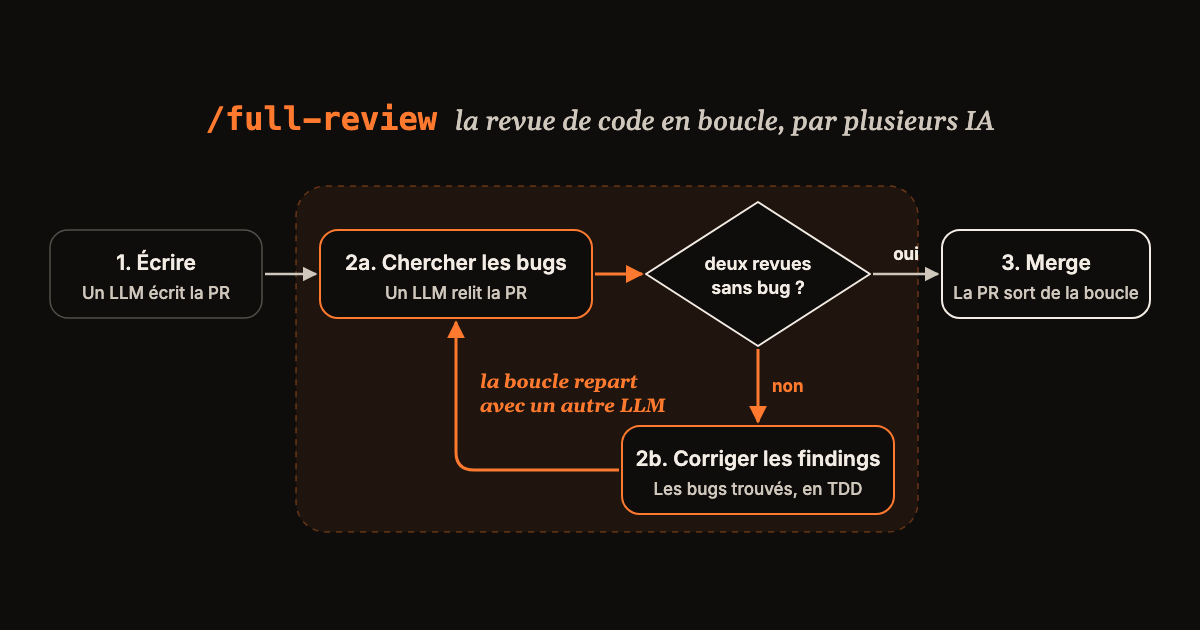
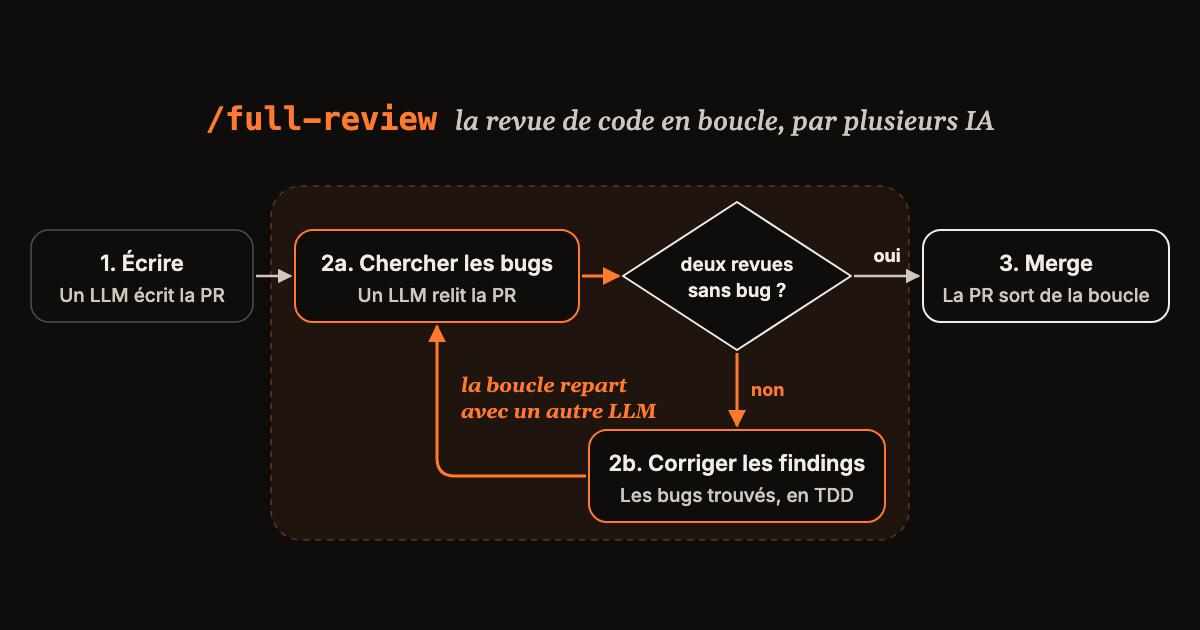
Article : schéma d'en-tête à la largeur du texte, schéma vertical seulement sur mobile
Claude-Session: https://claude.ai/code/session_01Paz6PNUeuA1k41NNyZQV7d

diff --git a/blog/qui-verifie/index.html b/blog/qui-verifie/index.html
@@ -38,23 +38,25 @@ figure { margin: 8px 0; padding: 24px clamp(16px, 3vw, 28px); background: var(--
 figcaption { font: 600 15px/1.4 var(--body); color: var(--text); }
 .fig-note { font-size: 13px; line-height: 1.5; color: var(--gray); }
 /* Schéma horizontal en tête */
-.hero { padding: 0; overflow: hidden; margin: 16px 0 8px 50%; width: min(1040px, calc(100vw - 48px)); transform: translateX(-50%); }
+.hero { padding: 0; overflow: hidden; margin-top: 16px; }
 @media (max-width: 760px) { .hero { display: none; } }
+.mobile-only { display: none; }
+@media (max-width: 760px) { .mobile-only { display: flex; } }
 .hzsvg { display: block; width: 100%; height: auto; }
 .hzsvg .hz-box { fill: var(--bg); stroke: var(--line); stroke-width: 1.5; }
 .hzsvg .hz-loop { stroke: var(--accent); stroke-width: 2; }
 .hzsvg .hz-end { stroke: var(--text); stroke-width: 2; }
-.hzsvg .hz-t { font: 600 21px var(--body); fill: var(--text); text-anchor: middle; }
-.hzsvg .hz-s { font: 500 17px var(--body); fill: var(--text2); text-anchor: middle; }
+.hzsvg .hz-t { font: 600 22px var(--body); fill: var(--text); text-anchor: middle; }
+.hzsvg .hz-s { font: 500 19px var(--body); fill: var(--text2); text-anchor: middle; }
 .hzsvg .hz-arc { fill: none; stroke: var(--accent); stroke-width: 3; }
 .hzsvg .hz-head-arc { fill: var(--accent); }
 .hzsvg .hz-line { fill: none; stroke: var(--text2); stroke-width: 2.5; }
 .hzsvg .hz-head-line { fill: var(--text2); }
 .hzsvg .hz-diamond { fill: var(--bg); stroke: var(--text); stroke-width: 2; stroke-linejoin: round; }
-.hzsvg .hz-d { font: 600 18px var(--body); fill: var(--text); text-anchor: middle; }
-.hzsvg .hz-yes { font: 700 17px var(--body); fill: var(--text); text-anchor: middle; }
-.hzsvg .hz-no { font: 700 17px var(--body); fill: var(--accent); }
-.hzsvg .hz-lt { font: italic 700 19px var(--display); fill: var(--accent); }
+.hzsvg .hz-d { font: 600 19px var(--body); fill: var(--text); text-anchor: middle; }
+.hzsvg .hz-yes { font: 700 18px var(--body); fill: var(--text); text-anchor: middle; }
+.hzsvg .hz-no { font: 700 18px var(--body); fill: var(--accent); }
+.hzsvg .hz-lt { font: italic 700 20px var(--display); fill: var(--accent); }
 .hzsvg .hz-zone { fill: var(--accent); fill-opacity: 0.07; stroke: var(--accent); stroke-opacity: 0.35; stroke-width: 1.5; stroke-dasharray: 6 6; }
 .hzsvg .hz-title { text-anchor: middle; }
 .hzsvg .hz-k { font: 700 32px ui-monospace, "SF Mono", Menlo, monospace; fill: var(--accent); }
@@ -151,26 +153,26 @@ th { color: var(--text); font-weight: 600; }
     <div class="eyebrow">Blog · 12 novembre 2026</div>
     <h1 class="one-line">L’IA code, ok&nbsp;! Mais qui <em>vérifie</em>&nbsp;?</h1>
     <p class="subtitle">Écrire du code n’est plus un problème&nbsp;: l’IA le fait vite et bien. Le point clé, désormais, c’est de vérifier et sécuriser son code avant déploiement en production&nbsp;!</p>
-    <figure class="hero"><svg class="hzsvg" viewBox="26 78 1148 478" role="img" aria-label="Le skill /full-review, la revue de code en boucle par plusieurs IA. 1 : un LLM écrit la PR. 2a : un LLM relit la PR et cherche les bugs. Deux revues sans bug d’affilée ? Si oui, 3 : merge, la PR sort de la boucle. Si non, 2b : les bugs trouvés sont corrigés en TDD, et la boucle repart en 2a avec un autre LLM.">
+    <figure class="hero"><svg class="hzsvg" viewBox="21 86 1158 470" role="img" aria-label="Le skill /full-review, la revue de code en boucle par plusieurs IA. 1 : un LLM écrit la PR. 2a : un LLM relit la PR et cherche les bugs. Deux revues sans bug d’affilée ? Si oui, 3 : merge, la PR sort de la boucle. Si non, 2b : les bugs trouvés sont corrigés en TDD, et la boucle repart en 2a avec un autre LLM.">
 <defs>
 <marker id="hz-hz-arc" viewBox="0 0 10 10" refX="9" refY="5" markerWidth="6" markerHeight="6" orient="auto"><path d="M0,0 L10,5 L0,10 z" class="hz-head-arc"/></marker>
 <marker id="hz-hz-line" viewBox="0 0 10 10" refX="9" refY="5" markerWidth="6" markerHeight="6" orient="auto"><path d="M0,0 L10,5 L0,10 z" class="hz-head-line"/></marker>
 </defs>
 <text class="hz-title" x="600.0" y="130"><tspan class="hz-k">/full-review</tspan><tspan class="hz-k2" dx="18">la revue de code en boucle, par plusieurs IA</tspan></text>
-<rect class="hz-zone" x="296" y="186" width="622" height="346.0" rx="30"/>
-<path class="hz-line" d="M265,274 H316" marker-end="url(#hz-hz-line)"/>
-<path class="hz-arc" d="M595,274 H642" marker-end="url(#hz-hz-arc)"/>
-<path class="hz-line" d="M873,274 H938" marker-end="url(#hz-hz-line)"/>
-<path class="hz-arc" d="M758,349 V422.0" marker-end="url(#hz-hz-arc)"/>
-<path class="hz-arc" d="M619,470 H474.0 Q456.0,470 456.0,452 V322.0" marker-end="url(#hz-hz-arc)"/>
-<text class="hz-lt" x="480.0" y="388.0">la boucle repart</text>
-<text class="hz-lt" x="480.0" y="412.0">avec un autre LLM</text>
-<path class="hz-diamond" d="M758,202 L870,274 L758,346 L646,274 Z"/>
-<text class="hz-d" x="758" y="270">deux revues</text>
-<text class="hz-d" x="758" y="294">sans bug&#160;?</text>
-<text class="hz-yes" x="906.0" y="260">oui</text>
-<text class="hz-no" x="772" y="392.0">non</text>
-<rect class="hz-box hz-plain" x="50" y="230.0" width="212" height="88" rx="18"/><text class="hz-t" x="156.0" y="270">1. Écrire</text><text class="hz-s" x="156.0" y="299">Un LLM écrit la PR</text><rect class="hz-box hz-loop" x="320" y="230.0" width="272" height="88" rx="18"/><text class="hz-t" x="456.0" y="270">2a. Chercher les bugs</text><text class="hz-s" x="456.0" y="299">Un LLM relit la PR</text><rect class="hz-box hz-end" x="942" y="230.0" width="208" height="88" rx="18"/><text class="hz-t" x="1046.0" y="270">3. Merge</text><text class="hz-s" x="1046.0" y="299">La PR sort de la boucle</text><rect class="hz-box hz-loop" x="622" y="426.0" width="272" height="88" rx="18"/><text class="hz-t" x="758.0" y="466">2b. Corriger les findings</text><text class="hz-s" x="758.0" y="495">Les bugs trouvés, en TDD</text>
+<rect class="hz-zone" x="271.0" y="186" width="638.0" height="354.0" rx="30"/>
+<path class="hz-line" d="M256.0,276 H291.0" marker-end="url(#hz-hz-line)"/>
+<path class="hz-arc" d="M582.0,276 H619.0" marker-end="url(#hz-hz-arc)"/>
+<path class="hz-line" d="M854.0,276 H919.0" marker-end="url(#hz-hz-line)"/>
+<path class="hz-arc" d="M737.0,353 V426.0" marker-end="url(#hz-hz-arc)"/>
+<path class="hz-arc" d="M586.0,476 H455.0 Q437.0,476 437.0,458 V326.0" marker-end="url(#hz-hz-arc)"/>
+<text class="hz-lt" x="461.0" y="392.0">la boucle repart</text>
+<text class="hz-lt" x="461.0" y="418.0">avec un autre LLM</text>
+<path class="hz-diamond" d="M737.0,202 L851.0,276 L737.0,350 L623.0,276 Z"/>
+<text class="hz-d" x="737.0" y="271">deux revues</text>
+<text class="hz-d" x="737.0" y="297">sans bug&#160;?</text>
+<text class="hz-yes" x="887.0" y="262">oui</text>
+<text class="hz-no" x="751.0" y="396.0">non</text>
+<rect class="hz-box hz-plain" x="31.0" y="230.0" width="222" height="92" rx="18"/><text class="hz-t" x="142.0" y="271">1. Écrire</text><text class="hz-s" x="142.0" y="302">Un LLM écrit la PR</text><rect class="hz-box hz-loop" x="295.0" y="230.0" width="284" height="92" rx="18"/><text class="hz-t" x="437.0" y="271">2a. Chercher les bugs</text><text class="hz-s" x="437.0" y="302">Un LLM relit la PR</text><rect class="hz-box hz-end" x="923.0" y="230.0" width="246" height="92" rx="18"/><text class="hz-t" x="1046.0" y="271">3. Merge</text><text class="hz-s" x="1046.0" y="302">La PR sort de la boucle</text><rect class="hz-box hz-loop" x="589.0" y="430.0" width="296" height="92" rx="18"/><text class="hz-t" x="737.0" y="471">2b. Corriger les findings</text><text class="hz-s" x="737.0" y="502">Les bugs trouvés, en TDD</text>
 </svg></figure>
 
     <h2>Fin 2025&nbsp;: l’IA écrit, l’humain relit</h2>
@@ -183,7 +185,7 @@ th { color: var(--text); font-weight: 600; }
     <p>L’IA code mieux que l’humain, c’est acquis. Elle relit aussi mieux que lui&nbsp;: elle lit chaque ligne, ne se lasse jamais, et ajoute en prime une analyse de sécurité systématique, que l’humain fait le plus souvent après coup, dans de rares audits.</p>
     <p>Aussi, nous avons décidé de confier notre revue de code à des IA, mais de façon maîtrisée, au travers d’un skill nommé <code>/full-review</code>. Plusieurs IA relisent à tour de rôle la PR. Chaque problème détecté est fixé de suite, puis la revue repart, avec un autre relecteur.</p>
 
-    <figure>
+    <figure class="mobile-only">
       <figcaption>Le skill <code>/full-review</code></figcaption>
       <svg class="loopsvg" viewBox="0 0 390 440" role="img" aria-label="Le skill /full-review. 1 : une IA écrit la PR. 2a : un LLM relit la PR et cherche les bugs. Test : deux revues sans bug d’affilée ? Si non, 2b : les bugs trouvés sont corrigés en TDD, et la boucle repart en 2a avec un autre LLM. Si oui, 3 : merge, la PR sort de la boucle.">
 <defs>

diff --git a/blog/index.html b/blog/index.html
@@ -38,23 +38,25 @@ figure { margin: 8px 0; padding: 24px clamp(16px, 3vw, 28px); background: var(--
 figcaption { font: 600 15px/1.4 var(--body); color: var(--text); }
 .fig-note { font-size: 13px; line-height: 1.5; color: var(--gray); }
 /* Schéma horizontal en tête */
-.hero { padding: 0; overflow: hidden; margin: 16px 0 8px 50%; width: min(1040px, calc(100vw - 48px)); transform: translateX(-50%); }
+.hero { padding: 0; overflow: hidden; margin-top: 16px; }
 @media (max-width: 760px) { .hero { display: none; } }
+.mobile-only { display: none; }
+@media (max-width: 760px) { .mobile-only { display: flex; } }
 .hzsvg { display: block; width: 100%; height: auto; }
 .hzsvg .hz-box { fill: var(--bg); stroke: var(--line); stroke-width: 1.5; }
 .hzsvg .hz-loop { stroke: var(--accent); stroke-width: 2; }
 .hzsvg .hz-end { stroke: var(--text); stroke-width: 2; }
-.hzsvg .hz-t { font: 600 21px var(--body); fill: var(--text); text-anchor: middle; }
-.hzsvg .hz-s { font: 500 17px var(--body); fill: var(--text2); text-anchor: middle; }
+.hzsvg .hz-t { font: 600 22px var(--body); fill: var(--text); text-anchor: middle; }
+.hzsvg .hz-s { font: 500 19px var(--body); fill: var(--text2); text-anchor: middle; }
 .hzsvg .hz-arc { fill: none; stroke: var(--accent); stroke-width: 3; }
 .hzsvg .hz-head-arc { fill: var(--accent); }
 .hzsvg .hz-line { fill: none; stroke: var(--text2); stroke-width: 2.5; }
 .hzsvg .hz-head-line { fill: var(--text2); }
 .hzsvg .hz-diamond { fill: var(--bg); stroke: var(--text); stroke-width: 2; stroke-linejoin: round; }
-.hzsvg .hz-d { font: 600 18px var(--body); fill: var(--text); text-anchor: middle; }
-.hzsvg .hz-yes { font: 700 17px var(--body); fill: var(--text); text-anchor: middle; }
-.hzsvg .hz-no { font: 700 17px var(--body); fill: var(--accent); }
-.hzsvg .hz-lt { font: italic 700 19px var(--display); fill: var(--accent); }
+.hzsvg .hz-d { font: 600 19px var(--body); fill: var(--text); text-anchor: middle; }
+.hzsvg .hz-yes { font: 700 18px var(--body); fill: var(--text); text-anchor: middle; }
+.hzsvg .hz-no { font: 700 18px var(--body); fill: var(--accent); }
+.hzsvg .hz-lt { font: italic 700 20px var(--display); fill: var(--accent); }
 .hzsvg .hz-zone { fill: var(--accent); fill-opacity: 0.07; stroke: var(--accent); stroke-opacity: 0.35; stroke-width: 1.5; stroke-dasharray: 6 6; }
 .hzsvg .hz-title { text-anchor: middle; }
 .hzsvg .hz-k { font: 700 32px ui-monospace, "SF Mono", Menlo, monospace; fill: var(--accent); }

diff --git a/en/blog/index.html b/en/blog/index.html
@@ -38,23 +38,25 @@ figure { margin: 8px 0; padding: 24px clamp(16px, 3vw, 28px); background: var(--
 figcaption { font: 600 15px/1.4 var(--body); color: var(--text); }
 .fig-note { font-size: 13px; line-height: 1.5; color: var(--gray); }
 /* Schéma horizontal en tête */
-.hero { padding: 0; overflow: hidden; margin: 16px 0 8px 50%; width: min(1040px, calc(100vw - 48px)); transform: translateX(-50%); }
+.hero { padding: 0; overflow: hidden; margin-top: 16px; }
 @media (max-width: 760px) { .hero { display: none; } }
+.mobile-only { display: none; }
+@media (max-width: 760px) { .mobile-only { display: flex; } }
 .hzsvg { display: block; width: 100%; height: auto; }
 .hzsvg .hz-box { fill: var(--bg); stroke: var(--line); stroke-width: 1.5; }
 .hzsvg .hz-loop { stroke: var(--accent); stroke-width: 2; }
 .hzsvg .hz-end { stroke: var(--text); stroke-width: 2; }
-.hzsvg .hz-t { font: 600 21px var(--body); fill: var(--text); text-anchor: middle; }
-.hzsvg .hz-s { font: 500 17px var(--body); fill: var(--text2); text-anchor: middle; }
+.hzsvg .hz-t { font: 600 22px var(--body); fill: var(--text); text-anchor: middle; }
+.hzsvg .hz-s { font: 500 19px var(--body); fill: var(--text2); text-anchor: middle; }
 .hzsvg .hz-arc { fill: none; stroke: var(--accent); stroke-width: 3; }
 .hzsvg .hz-head-arc { fill: var(--accent); }
 .hzsvg .hz-line { fill: none; stroke: var(--text2); stroke-width: 2.5; }
 .hzsvg .hz-head-line { fill: var(--text2); }
 .hzsvg .hz-diamond { fill: var(--bg); stroke: var(--text); stroke-width: 2; stroke-linejoin: round; }
-.hzsvg .hz-d { font: 600 18px var(--body); fill: var(--text); text-anchor: middle; }
-.hzsvg .hz-yes { font: 700 17px var(--body); fill: var(--text); text-anchor: middle; }
-.hzsvg .hz-no { font: 700 17px var(--body); fill: var(--accent); }
-.hzsvg .hz-lt { font: italic 700 19px var(--display); fill: var(--accent); }
+.hzsvg .hz-d { font: 600 19px var(--body); fill: var(--text); text-anchor: middle; }
+.hzsvg .hz-yes { font: 700 18px var(--body); fill: var(--text); text-anchor: middle; }
+.hzsvg .hz-no { font: 700 18px var(--body); fill: var(--accent); }
+.hzsvg .hz-lt { font: italic 700 20px var(--display); fill: var(--accent); }
 .hzsvg .hz-zone { fill: var(--accent); fill-opacity: 0.07; stroke: var(--accent); stroke-opacity: 0.35; stroke-width: 1.5; stroke-dasharray: 6 6; }
 .hzsvg .hz-title { text-anchor: middle; }
 .hzsvg .hz-k { font: 700 32px ui-monospace, "SF Mono", Menlo, monospace; fill: var(--accent); }

diff --git a/en/blog/validating-code/index.html b/en/blog/validating-code/index.html
@@ -38,23 +38,25 @@ figure { margin: 8px 0; padding: 24px clamp(16px, 3vw, 28px); background: var(--
 figcaption { font: 600 15px/1.4 var(--body); color: var(--text); }
 .fig-note { font-size: 13px; line-height: 1.5; color: var(--gray); }
 /* Schéma horizontal en tête */
-.hero { padding: 0; overflow: hidden; margin: 16px 0 8px 50%; width: min(1040px, calc(100vw - 48px)); transform: translateX(-50%); }
+.hero { padding: 0; overflow: hidden; margin-top: 16px; }
 @media (max-width: 760px) { .hero { display: none; } }
+.mobile-only { display: none; }
+@media (max-width: 760px) { .mobile-only { display: flex; } }
 .hzsvg { display: block; width: 100%; height: auto; }
 .hzsvg .hz-box { fill: var(--bg); stroke: var(--line); stroke-width: 1.5; }
 .hzsvg .hz-loop { stroke: var(--accent); stroke-width: 2; }
 .hzsvg .hz-end { stroke: var(--text); stroke-width: 2; }
-.hzsvg .hz-t { font: 600 21px var(--body); fill: var(--text); text-anchor: middle; }
-.hzsvg .hz-s { font: 500 17px var(--body); fill: var(--text2); text-anchor: middle; }
+.hzsvg .hz-t { font: 600 22px var(--body); fill: var(--text); text-anchor: middle; }
+.hzsvg .hz-s { font: 500 19px var(--body); fill: var(--text2); text-anchor: middle; }
 .hzsvg .hz-arc { fill: none; stroke: var(--accent); stroke-width: 3; }
 .hzsvg .hz-head-arc { fill: var(--accent); }
 .hzsvg .hz-line { fill: none; stroke: var(--text2); stroke-width: 2.5; }
 .hzsvg .hz-head-line { fill: var(--text2); }
 .hzsvg .hz-diamond { fill: var(--bg); stroke: var(--text); stroke-width: 2; stroke-linejoin: round; }
-.hzsvg .hz-d { font: 600 18px var(--body); fill: var(--text); text-anchor: middle; }
-.hzsvg .hz-yes { font: 700 17px var(--body); fill: var(--text); text-anchor: middle; }
-.hzsvg .hz-no { font: 700 17px var(--body); fill: var(--accent); }
-.hzsvg .hz-lt { font: italic 700 19px var(--display); fill: var(--accent); }
+.hzsvg .hz-d { font: 600 19px var(--body); fill: var(--text); text-anchor: middle; }
+.hzsvg .hz-yes { font: 700 18px var(--body); fill: var(--text); text-anchor: middle; }
+.hzsvg .hz-no { font: 700 18px var(--body); fill: var(--accent); }
+.hzsvg .hz-lt { font: italic 700 20px var(--display); fill: var(--accent); }
 .hzsvg .hz-zone { fill: var(--accent); fill-opacity: 0.07; stroke: var(--accent); stroke-opacity: 0.35; stroke-width: 1.5; stroke-dasharray: 6 6; }
 .hzsvg .hz-title { text-anchor: middle; }
 .hzsvg .hz-k { font: 700 32px ui-monospace, "SF Mono", Menlo, monospace; fill: var(--accent); }
